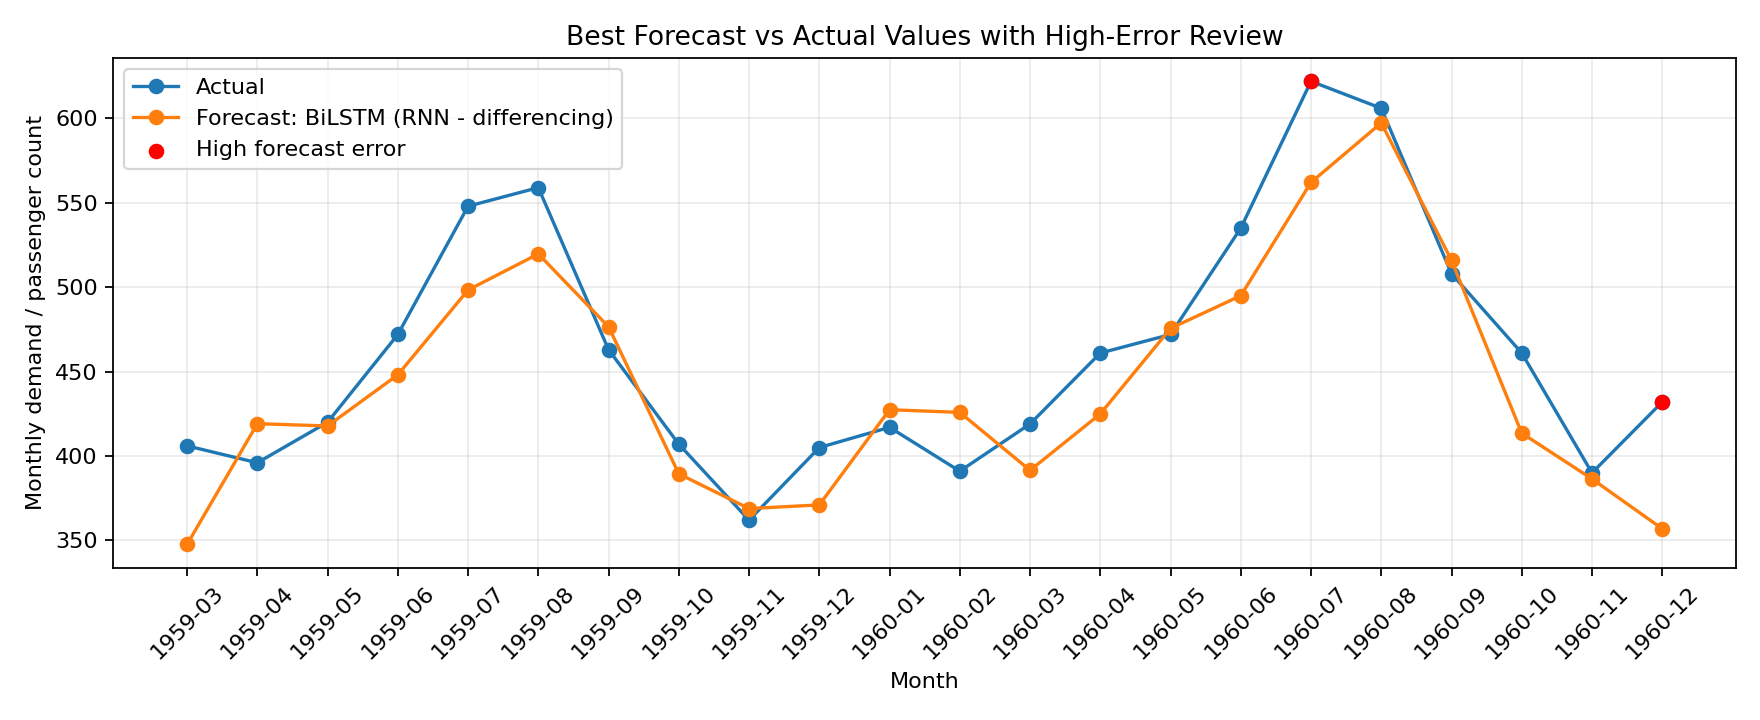
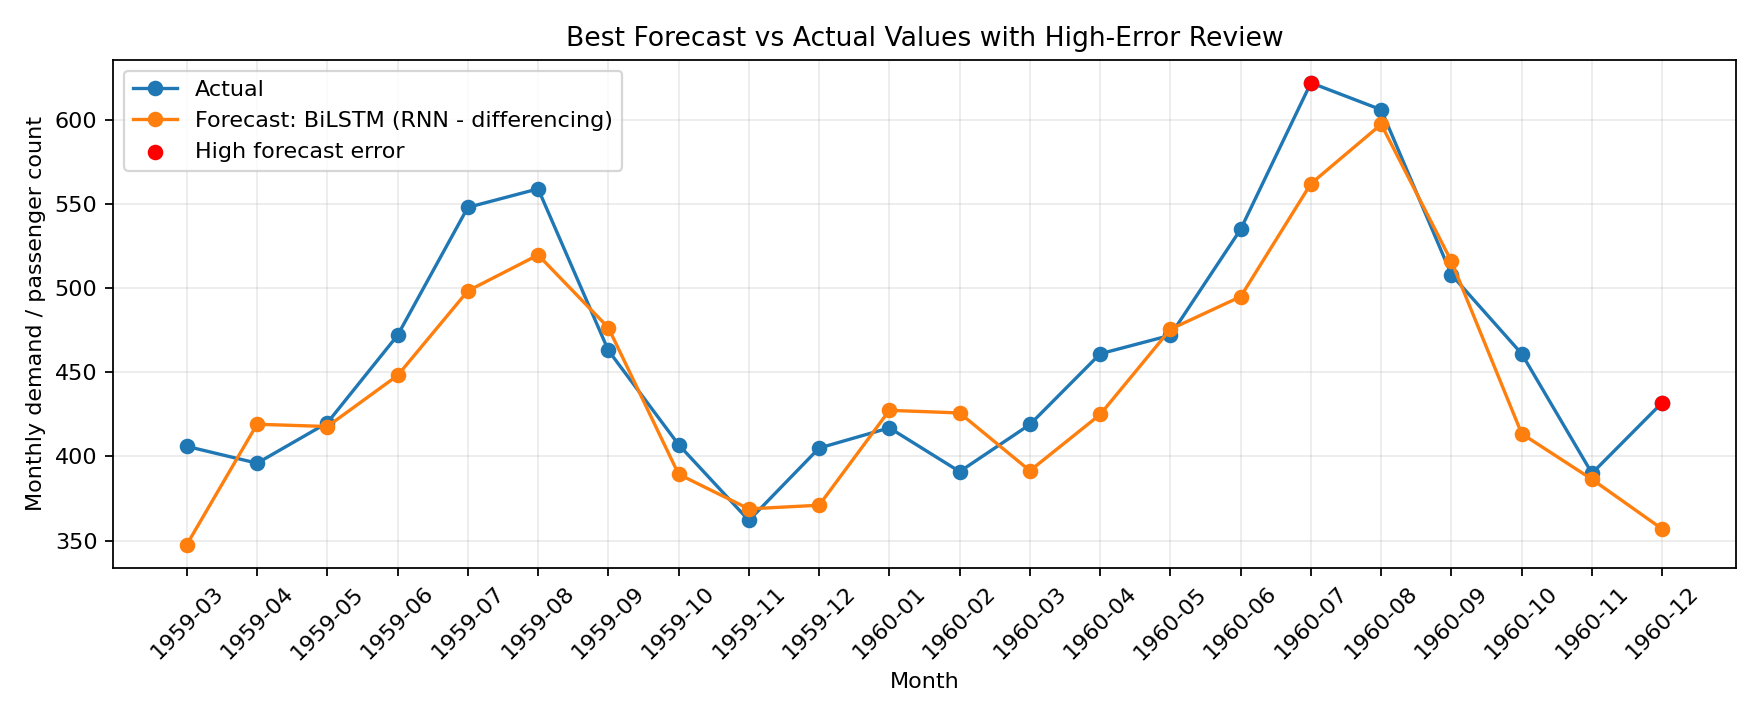
Add forecasting run summary and data quality report

diff --git a/time_series_rnn_forecasting.py b/time_series_rnn_forecasting.py
@@ -1,12 +1,23 @@
 import csv
+import json
 import os
 import time
 import copy
 import random
+
+LOCAL_CACHE_DIR = os.path.join(os.getcwd(), ".cache")
+os.environ.setdefault("MPLCONFIGDIR", os.path.join(LOCAL_CACHE_DIR, "matplotlib"))
+os.environ.setdefault("XDG_CACHE_HOME", LOCAL_CACHE_DIR)
+os.makedirs(os.environ["MPLCONFIGDIR"], exist_ok=True)
+os.makedirs(os.environ["XDG_CACHE_HOME"], exist_ok=True)
+
 import numpy as np
 import torch
 import torch.nn as nn
 from torch.utils.data import Dataset, DataLoader
+import matplotlib
+
+matplotlib.use("Agg")
 import matplotlib.pyplot as plt
 
 # ============================
@@ -258,6 +269,28 @@ def run_baseline_models(series_raw: np.ndarray):
     return rows, plots
 
 
+def build_data_quality_report(months, series_raw):
+    train_end, val_end = chronological_split_points(len(series_raw))
+    duplicate_months = len(months) - len(set(months))
+    missing_values = int(np.isnan(series_raw).sum())
+
+    return {
+        "dataset": CSV_FILENAME,
+        "total_observations": len(series_raw),
+        "start_month": months[0],
+        "end_month": months[-1],
+        "missing_values": missing_values,
+        "duplicate_months": duplicate_months,
+        "train_points": train_end,
+        "validation_points": val_end - train_end,
+        "test_points": len(series_raw) - val_end,
+        "window_length": WINDOW_LEN,
+        "train_windows": max(train_end - WINDOW_LEN, 0),
+        "validation_windows": val_end - train_end,
+        "test_windows": len(series_raw) - val_end,
+    }
+
+
 # ============================
 # 6) Training with early stopping
 # ============================
@@ -441,7 +474,7 @@ def build_result_records(condition: str, rows, plots):
     return records
 
 
-def save_project_outputs(months, result_records):
+def save_project_outputs(months, series_raw, result_records):
     os.makedirs(OUTPUT_DIR, exist_ok=True)
 
     metrics_rows = []
@@ -525,12 +558,57 @@ def save_project_outputs(months, result_records):
     fig.savefig(plot_path, dpi=160)
     plt.close(fig)
 
+    data_quality = build_data_quality_report(months, series_raw)
+    data_quality_path = os.path.join(OUTPUT_DIR, "data_quality_report.csv")
+    with open(data_quality_path, "w", newline="") as f:
+        writer = csv.DictWriter(f, fieldnames=list(data_quality.keys()))
+        writer.writeheader()
+        writer.writerow(data_quality)
+
+    ranked_records = sorted(result_records, key=lambda item: item["test_rmse"])
+    next_best = ranked_records[1]
+    rmse_improvement = next_best["test_rmse"] - best["test_rmse"]
+    rmse_improvement_percent = (rmse_improvement / next_best["test_rmse"]) * 100
+
+    run_summary = {
+        "dataset": CSV_FILENAME,
+        "total_observations": len(months),
+        "forecast_horizon": "1-step ahead",
+        "window_length": WINDOW_LEN,
+        "models_compared": len(result_records),
+        "conditions_compared": sorted(set(record["condition"] for record in result_records)),
+        "best_model": best["model"],
+        "best_condition": best["condition"],
+        "best_mae": best["test_mae"],
+        "best_rmse": best["test_rmse"],
+        "best_mape_percent": best["test_mape_percent"],
+        "next_best_model": next_best["model"],
+        "next_best_condition": next_best["condition"],
+        "next_best_rmse": next_best["test_rmse"],
+        "rmse_improvement_vs_next_best": round(float(rmse_improvement), 3),
+        "rmse_improvement_percent_vs_next_best": round(float(rmse_improvement_percent), 2),
+        "high_error_periods_flagged": int(np.sum(anomaly_flags)),
+        "review_threshold": round(threshold, 3),
+        "seed": SEED,
+        "device_note": "Uses CUDA if available, otherwise CPU",
+    }
+    run_summary_path = os.path.join(OUTPUT_DIR, "run_summary.json")
+    with open(run_summary_path, "w") as f:
+        json.dump(run_summary, f, indent=2)
+
     return {
         "best_model": best["model"],
         "best_condition": best["condition"],
         "best_rmse": best["test_rmse"],
         "anomaly_count": int(np.sum(anomaly_flags)),
-        "files": [metrics_path, forecast_path, anomaly_path, plot_path],
+        "files": [
+            metrics_path,
+            forecast_path,
+            anomaly_path,
+            plot_path,
+            data_quality_path,
+            run_summary_path,
+        ],
     }
 
 
@@ -567,7 +645,7 @@ def main():
     result_records.extend(build_result_records("RNN - differencing", rows_b, plots_b))
 
     if SAVE_OUTPUTS:
-        summary = save_project_outputs(_months, result_records)
+        summary = save_project_outputs(_months, series, result_records)
         print("\nSaved project outputs:")
         for file_path in summary["files"]:
             print(f"  - {file_path}")

diff --git a/README.md b/README.md
@@ -6,6 +6,8 @@ After that, I extended it into a more practical forecasting pipeline. I added ba
 
 The dataset used here is the Airline Passengers dataset. Even though it is a public benchmark dataset, I treated it like a monthly demand signal. The same workflow could be reused for production demand, sensor trends, quality issue counts, or other industrial time-series data.
 
+The main idea is simple: a forecast should not stop at one final metric. It should also show where the model was wrong, which periods need review, and whether the model is actually better than simple baselines.
+
 ## What This Project Does
 
 - Loads a monthly time-series dataset from CSV.
@@ -16,6 +18,9 @@ The dataset used here is the Airline Passengers dataset. Even though it is a pub
 - Uses MAE, RMSE, and MAPE for evaluation.
 - Saves clean output files for review and reporting.
 - Flags high forecast-error periods for further analysis.
+- Produces a small monitoring-style report that can be checked after each run.
+- Saves a run summary with dataset size, split sizes, best model, next-best comparison, and review threshold.
+- Saves a data-quality report so the experiment is not dependent on hidden assumptions.
 
 ## Why I Added Baselines
 
@@ -53,7 +58,22 @@ In my final run, the model achieved:
 - RMSE: 34.931
 - MAPE: 6.12%
 
+The same run compared 10 forecasting configurations in total: 4 baselines, 3 RNN models without differencing, and 3 RNN models with differencing. The next-best model was GRU with differencing, with RMSE 41.037. The BiLSTM with differencing improved RMSE by 6.106, which is about 14.88% better than the next-best result in this run.
+
 The experiment also showed that differencing improved the RNN models clearly. Without differencing, the RNN models struggled more with the trend and seasonal pattern.
+
+In this final run, the high-error review flagged 2 months where the forecast error crossed the review threshold. I added this because in practical forecasting, the question is not only "which model is best?", but also "where should a person look more carefully?"
+
+## Data and Split Check
+
+The script also saves a small data-quality report before interpreting the model outputs. In the current dataset:
+
+- Total observations: 144 monthly values
+- Time range: 1949-01 to 1960-12
+- Missing values: 0
+- Duplicate months: 0
+- Train / validation / test points: 100 / 22 / 22
+- Sliding-window length: 24 months
 
 ## Forecast Output
 
@@ -73,7 +93,7 @@ The experiment also showed that differencing improved the RNN models clearly. Wi
 
 ## Saved Outputs
 
-Each run saves the same output files into the `outputs/` folder, so the project stays clean and does not create random extra files.
+Each run saves the same output files into the `outputs/` folder, so the project stays clean and does not create random extra files. I kept the output names stable because it makes the workflow easier to rerun, compare, and document.
 
 ```text
 outputs/
@@ -81,6 +101,8 @@ outputs/
   forecast_comparison.csv
   anomaly_review.csv
   forecast_plot.png
+  data_quality_report.csv
+  run_summary.json
 ```
 
 The output files help show:
@@ -89,6 +111,10 @@ The output files help show:
 - actual vs predicted values
 - forecast errors
 - high-error periods that need review
+- data quality and split information
+- best-model and next-best-model comparison
+
+This is also the part that makes the project more than a notebook-style experiment. The script creates reusable artifacts that can be inspected later or used in a report.
 
 ## How To Run
 
@@ -105,6 +131,7 @@ The script prints the model comparison tables in the terminal and saves the fina
 - MAE and RMSE are useful, but MAPE makes the error easier to understand in percentage terms.
 - A forecast is more useful when the error is monitored, not only when one final score is reported.
 - Saving outputs makes the experiment easier to review and reproduce.
+- A more complex model is not automatically better unless it beats simple baselines and gives useful error diagnostics.
 
 ## Current Limitations
 
@@ -112,6 +139,7 @@ The script prints the model comparison tables in the terminal and saves the fina
 - The project uses one-step-ahead forecasting.
 - It does not yet include external features such as holidays, events, or economic indicators.
 - The high-error review is based on forecast error thresholds, not a separate anomaly detection model.
+- The current run uses one public benchmark dataset, so it is best treated as a reusable workflow pattern rather than a final business model.
 
 ## Future Improvements
 
@@ -120,6 +148,7 @@ The script prints the model comparison tables in the terminal and saves the fina
 - Add external features for better demand prediction.
 - Compare with statistical models such as ARIMA or Exponential Smoothing.
 - Add a separate anomaly detection method for forecast residuals.
+- Add a lightweight experiment log so model settings and results can be compared across runs.
 
 ## Resume Summary
 